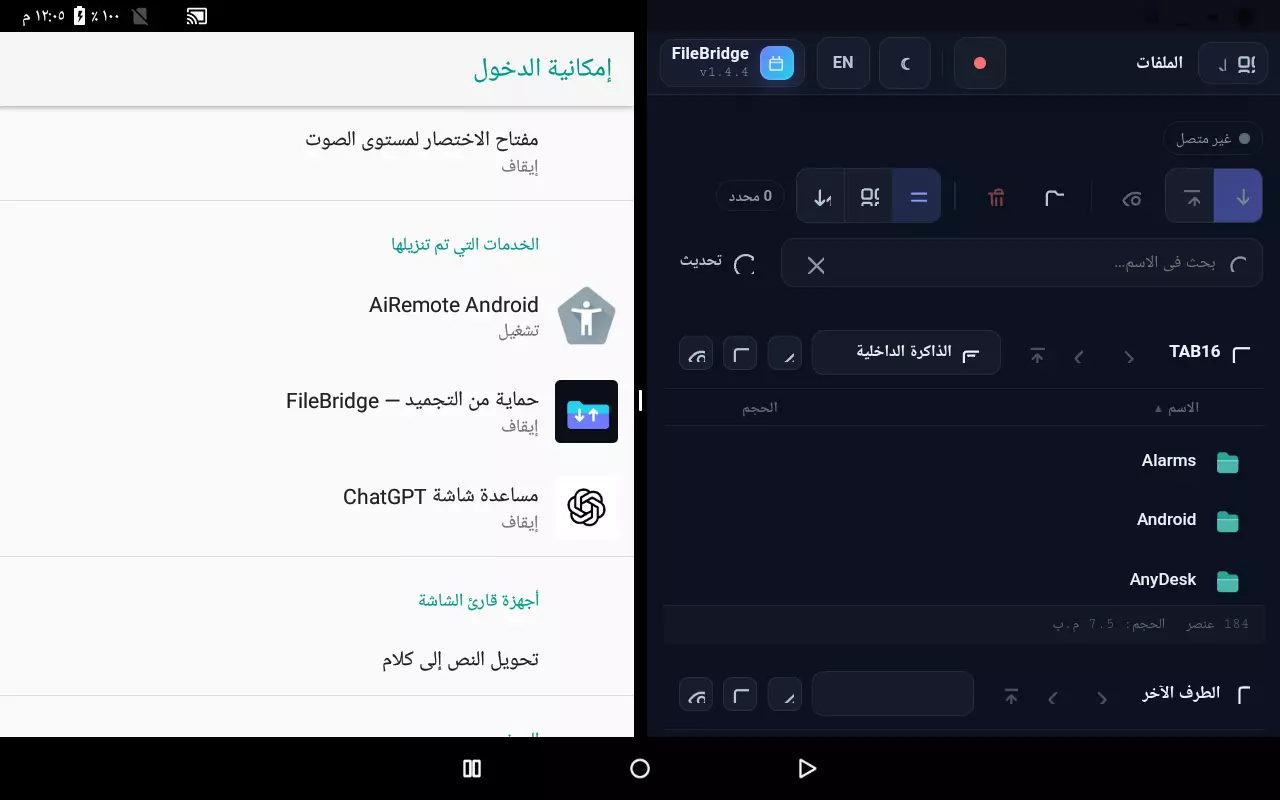
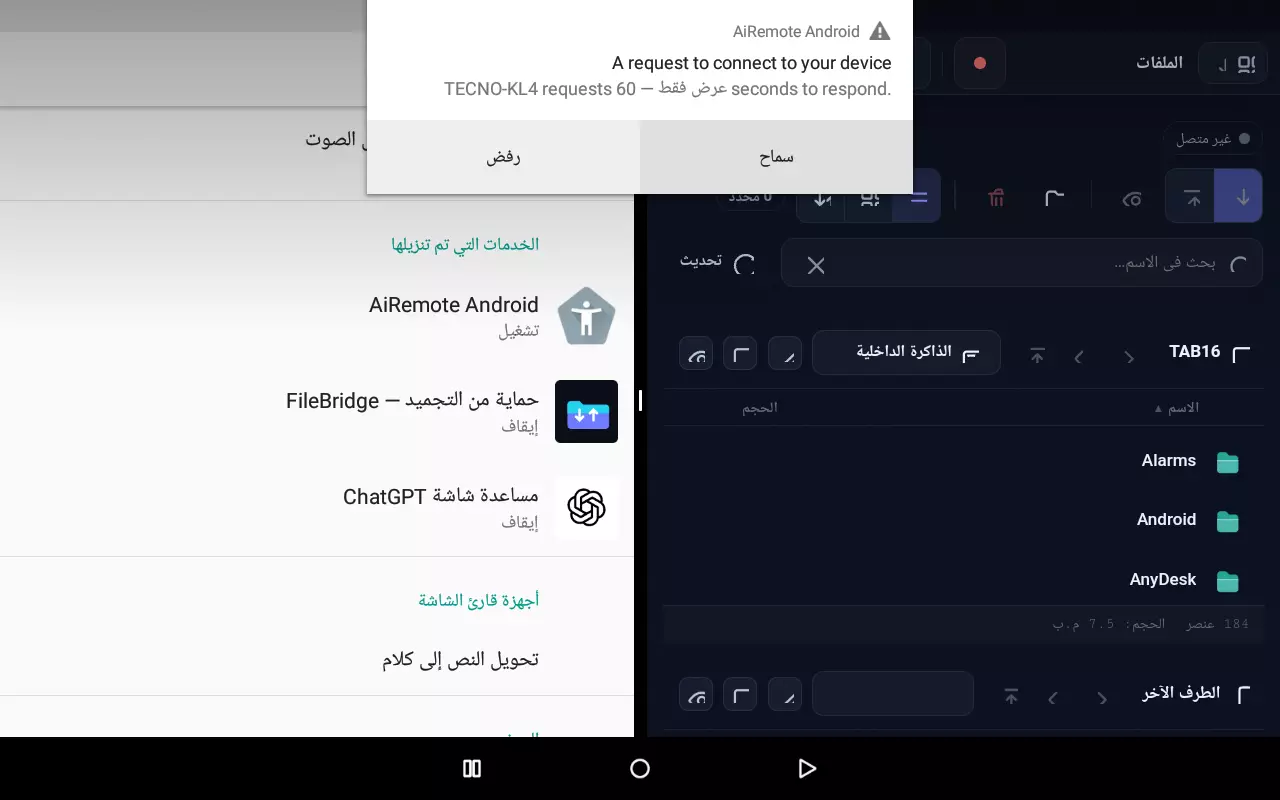
تسليم نهاية جلسة بث الشاشة: a2a مقيس + تشخيص DPI 175% لجهاز المالك

diff --git a/docs/HANDOFF-20261119-1226.md b/docs/HANDOFF-20261119-1226.md
@@ -1,0 +1,85 @@
+# تسليم — AiRemote — 2026-11-19 12:26
+
+> هذا الملف هو نقطة الاستئناف الوحيدة. اقرأه كاملاً قبل أي تعديل.
+
+## 1. الهوية والمسارات
+
+- **المشروع:** AiRemote
+- **المسار المطلق:** `D:\autoclaw projects-new\AiRemote`
+- **المستودع المحلي:** `http://localhost:3000/ibrahims78/airemote.git`
+- **الفرع:** feat/screen-unify-3.13.0
+- **آخر commit:** `ecb828fef88bcb9712ae99c9956798bd9440c6aa`
+- **الحساب/الجهاز:** admin@
+
+## 2. البيئة
+
+```
+git git version 2.44.0.windows.1
+node v24.20.0
+python Python 3.13.15
+dotnet The command could not be loaded, possibly because:
+```
+
+أوامر: التثبيت/التشغيل/الاختبار في `README.md` — القسم «التشغيل السريع».
+
+## 3. الحالة
+
+- **المرحلة:** غير محددة
+- **الحالة:** PAUSED
+- **ملفات غير محفوظة:** 5
+
+```
+ M outputs/verify-2026-11-19/screen/out/shot-smoke-first-1280x800.webp
+ M outputs/verify-2026-11-19/screen/out/shot-smoke-last-1280x800.webp
+?? outputs/verify-2026-11-19/screen/a2a-ws.cjs
+?? outputs/verify-2026-11-19/screen/out/smoke-7fc54b40-1795080115265.json
+?? outputs/verify-2026-11-19/screen/out/smoke-7fc54b40-1795080161037.json
+```
+
+> **تحذير:** هذه التغييرات غير محفوظة. نفّذ `pf checkpoint` قبل التوقف وإلا فُقدت.
+
+## 4. آخر نقاط الحفظ
+
+- `2026-11-18 22:14` — رفع Gitea+GitHub main+feat fd01e17/e3d4b61 — README عربي شامل، 3001 حي بالإصلاحات  ()
+- `2026-11-18 22:42` — اختبار هوية المالك بعد إصلاح Invoke-Git  (d74e8d6)
+- `2026-11-18 22:45` — هوية المالك عبر env في Invoke-Git  ()
+- `2026-11-18 23:55` — D: نسخ قديمة إلى E:\AiRemote-Archive + إصلاح نافذة الإغلاق + README عربي شامل + هوية ibrahims78  ()
+- `2026-11-19 12:07` — تحقّق بث الشاشة: قياس 4 أجهزة + تسجيل 32:59 + إصلاح GDI جودة/سقف FPS/زر لقطة/بوابة إدخال أندرويد — bc371de  (08d4999)
+
+آخر الـ commits:
+
+```
+ecb828f docs: agent-to-agent TECNO->TAB16 view session measured
+c2daa84 docs: تحديث حالة المشروع بعد نقطة الحفظ
+08d4999 تحقّق بث الشاشة: قياس 4 أجهزة + تسجيل 32:59 + إصلاح GDI جودة/سقف FPS/زر لقطة/بوابة إدخال أندرويد — bc371de
+ceed484 docs: record 2026-11-19 screen-stream verification round
+bc371de fix(screen): apply GDI quality switch, raise fps cap to 30, add snapshot button, gate android input by grant
+9c1f3e0 docs: تحديث حالة المشروع بعد نقطة الحفظ
+61835d3 docs: تحديث حالة المشروع بعد نقطة الحفظ
+09f98a7 docs: تحديث حالة المشروع بعد نقطة الحفظ
+```
+
+## 5. التالي بالترتيب
+
+1. [ ] (لم تُحدَّد مهام قادمة في PROJECT_STATE — حدّدها الآن)
+
+## 6. العوائق
+
+- السيرفر الإنتاجي 3001 غير مستجيب (لا يُلمس بلا أمر).
+
+## 7. ما لا يجب فعله
+
+1. لا تبدأ من الذاكرة أو من محادثة سابقة — اقرأ هذا الملف و`docs\PROJECT_STATE.md`.
+2. لا تعدّل على `main` مباشرة؛ أنشئ فرعاً.
+3. لا تُعِد بناء ما هو موجود «للتأكد».
+4. لا تحذف ملفات أو تعِد تسمية بنية دون طلب صريح.
+5. لا تكتب أسراراً في أي ملف.
+6. لا تبدأ عملاً جديداً قبل حفظ التغييرات المعلّقة أعلاه.
+
+## 8. أوامر الاستئناف
+
+```powershell
+cd D:\ProjectForge\05-SCRIPTS
+.\pf.ps1 resume -Path "D:\autoclaw projects-new\AiRemote"
+.\pf.ps1 status -Path "D:\autoclaw projects-new\AiRemote"
+```

diff --git a/docs/PROJECT_STATE.md b/docs/PROJECT_STATE.md
@@ -2,7 +2,7 @@
 
 > **ملاحظة (2026-11-17):** هذا الملف يديره `pf checkpoint` (سجل الجلسات أدناه). **الملف التاريخي الرسمي الكامل هو `PROJECT_STATE.md` في الجذر** حتى نقله إلى `docs/` في W3-3. قالب pf الافتراضي («لا اختبارات، لا CI») **لا يطابق** هذا المشروع — المحتوى أدناه مصحّح ليطابق الواقع.
 
-- **آخر تحديث:** 2026-11-19 12:07
+- **آخر تحديث:** 2026-11-19 12:26
 - **المرحلة:** تشخيص وإصلاح P1/P2 الصغير — مكتمل (التثبيت على 3001 ينتظر «ثبّت»)
 - **الحالة:** BUILDING
 - **آخر commit:** 08d4999
@@ -38,6 +38,7 @@
 
 | التاريخ | الحساب/الجهاز | Commit | ملاحظة |
 |---|---|---|---|
+| 2026-11-19 12:26 | admin@ | — | تسليم: HANDOFF-20261119-1226.md |
 | 2026-11-19 12:07 | admin@ | 08d4999 | تحقّق بث الشاشة: قياس 4 أجهزة + تسجيل 32:59 + إصلاح GDI جودة/سقف FPS/زر لقطة/بوابة إدخال أندرويد — bc371de |
 | 2026-11-18 23:55 | admin@ | — | D: نسخ قديمة إلى E:\AiRemote-Archive + إصلاح نافذة الإغلاق + README عربي شامل + هوية ibrahims78 |
 | 2026-11-18 22:45 | admin@ | — | هوية المالك عبر env في Invoke-Git |
